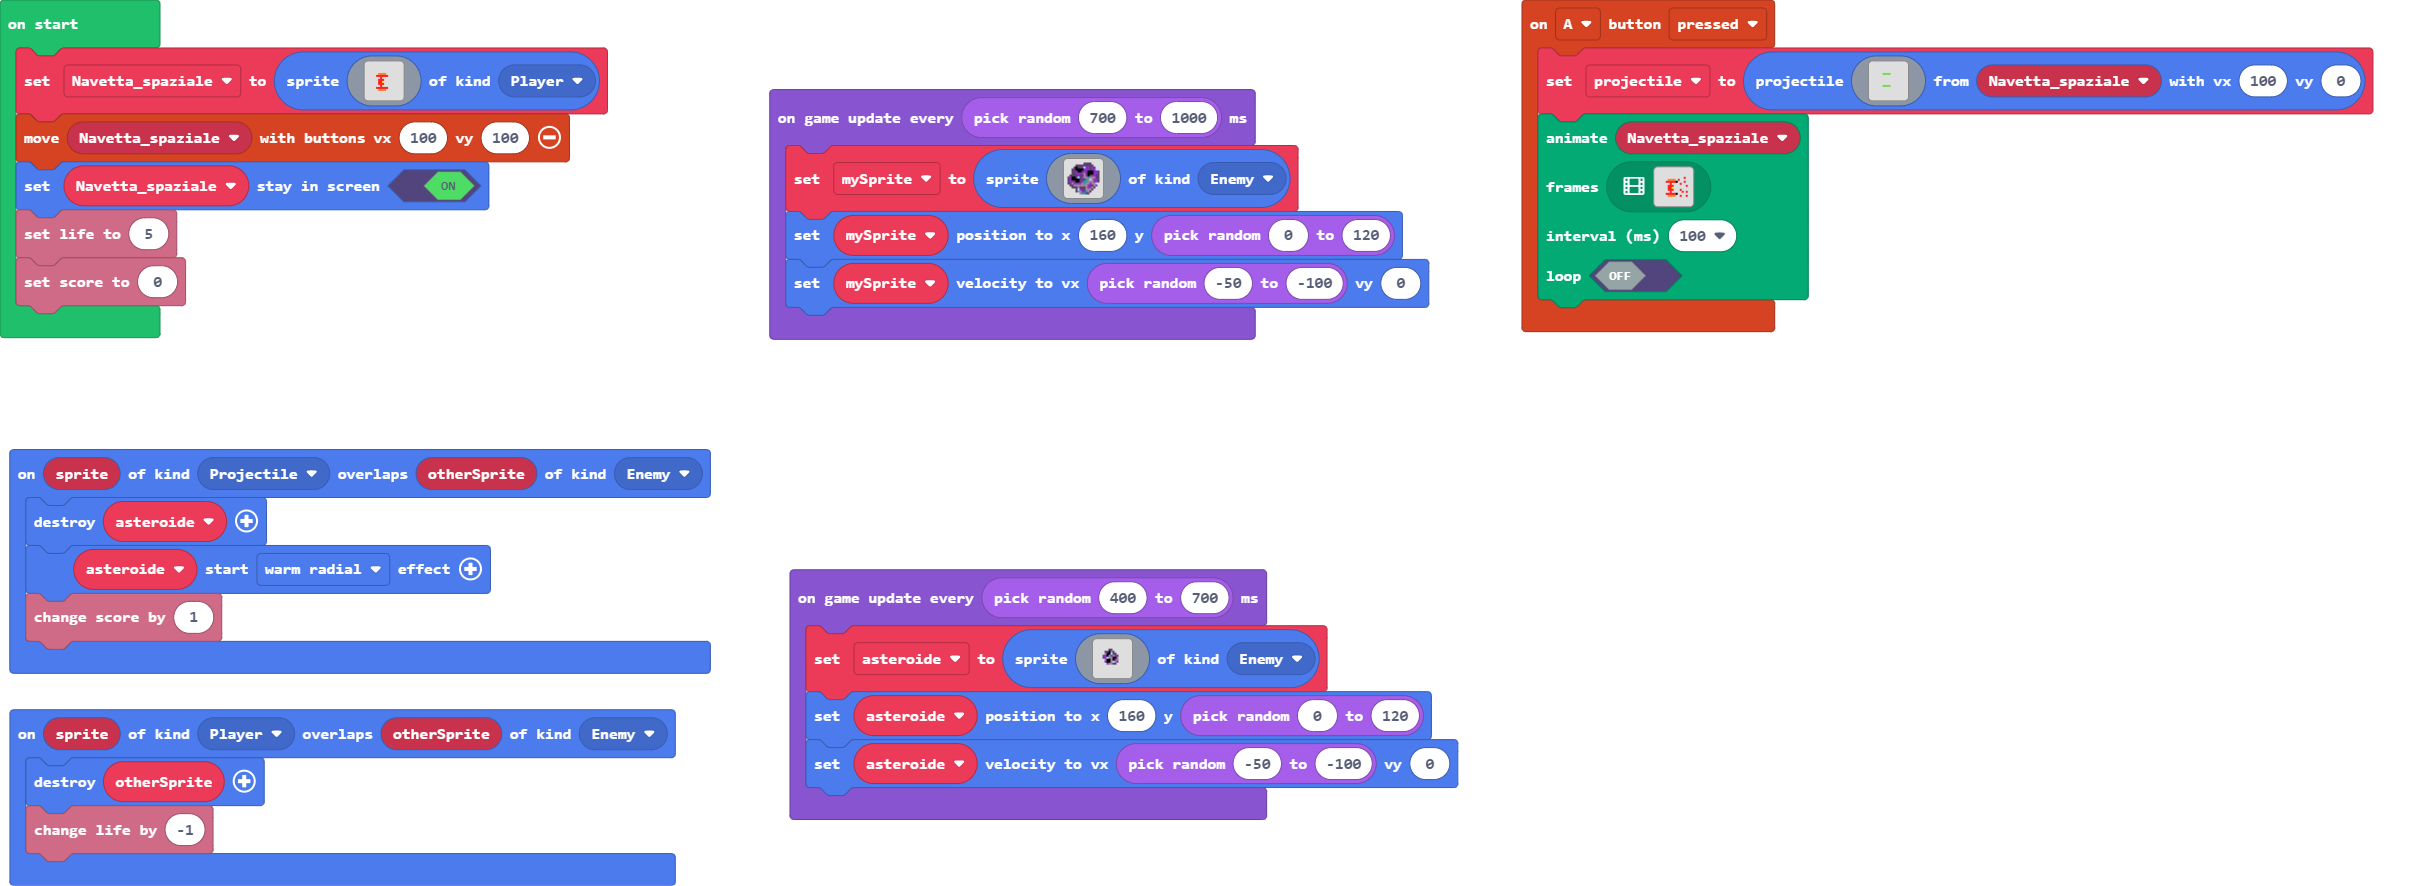
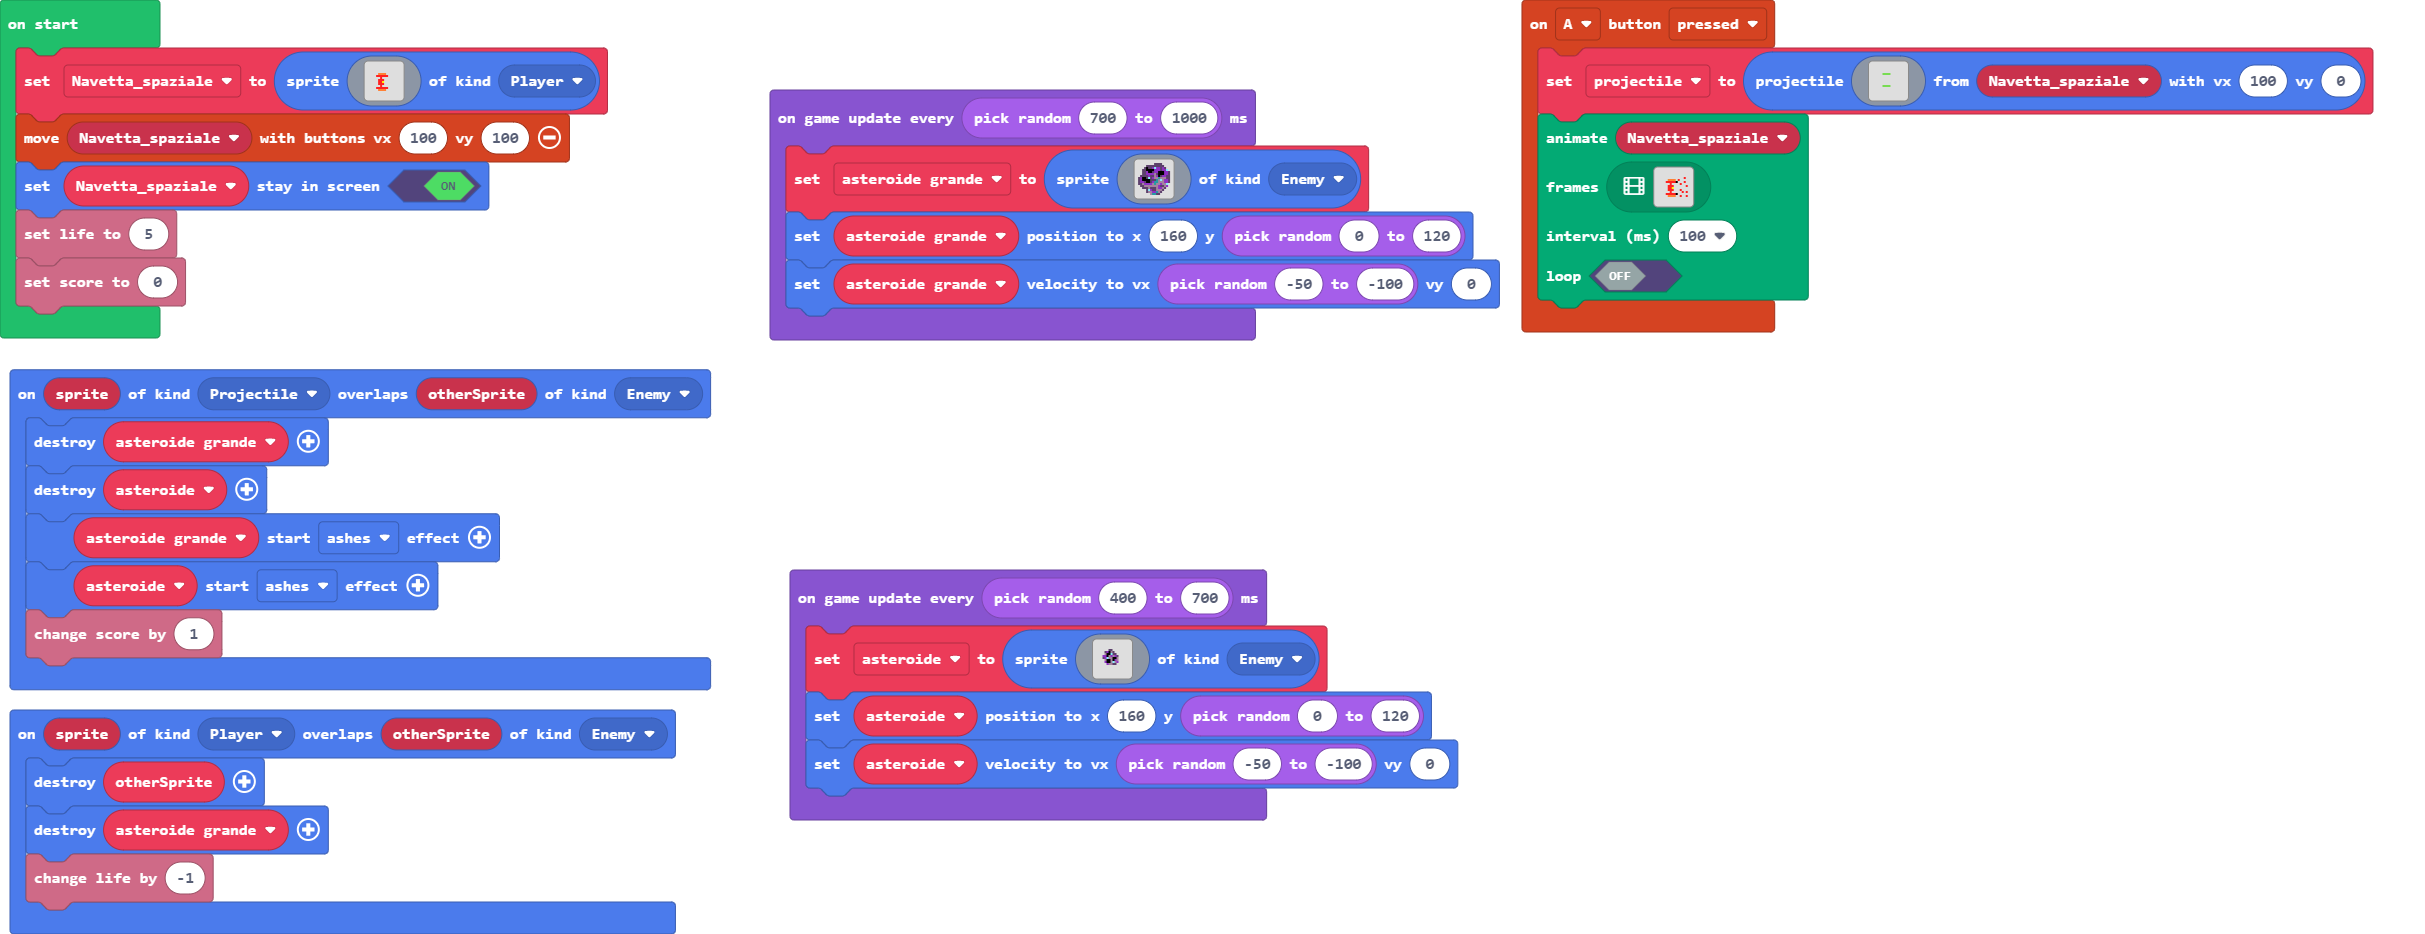
Update pxt.json, main.blocks, main.ts

Changed region(s): [[0.0, 0.0, 0.6186, 0.9752], [0.3093, 0.0, 0.9897, 0.3962]]

diff --git a/main.ts b/main.ts
@@ -97,16 +97,19 @@ controller.A.onEvent(ControllerButtonEvent.Pressed, function () {
     )
 })
 sprites.onOverlap(SpriteKind.Projectile, SpriteKind.Enemy, function (sprite, otherSprite) {
+    asteroide_grande.destroy()
     asteroide.destroy()
-    asteroide.startEffect(effects.warmRadial)
+    asteroide_grande.startEffect(effects.ashes)
+    asteroide.startEffect(effects.ashes)
     info.changeScoreBy(1)
 })
 sprites.onOverlap(SpriteKind.Player, SpriteKind.Enemy, function (sprite, otherSprite) {
     otherSprite.destroy()
+    asteroide_grande.destroy()
     info.changeLifeBy(-1)
 })
-let mySprite: Sprite = null
 let asteroide: Sprite = null
+let asteroide_grande: Sprite = null
 let projectile: Sprite = null
 let Navetta_spaziale: Sprite = null
 Navetta_spaziale = sprites.create(img`
@@ -154,7 +157,7 @@ game.onUpdateInterval(randint(400, 700), function () {
     asteroide.setVelocity(randint(-50, -100), 0)
 })
 game.onUpdateInterval(randint(700, 1000), function () {
-    mySprite = sprites.create(img`
+    asteroide_grande = sprites.create(img`
         . . . . . . . . c c c c . . . . 
         . . . . c c c c c c c c c . . . 
         . . . c f c c a 9 a a c a c . . 
@@ -172,6 +175,6 @@ game.onUpdateInterval(randint(700, 1000), function () {
         . . . . c b b a a 6 b c . . . . 
         . . . . . . b 6 6 c c . . . . . 
         `, SpriteKind.Enemy)
-    mySprite.setPosition(160, randint(0, 120))
-    mySprite.setVelocity(randint(-50, -100), 0)
+    asteroide_grande.setPosition(160, randint(0, 120))
+    asteroide_grande.setVelocity(randint(-50, -100), 0)
 })
